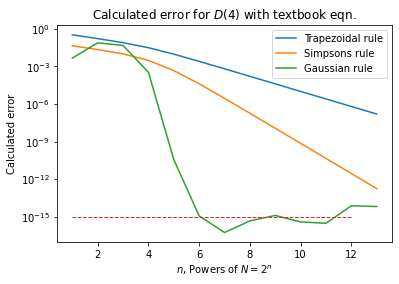
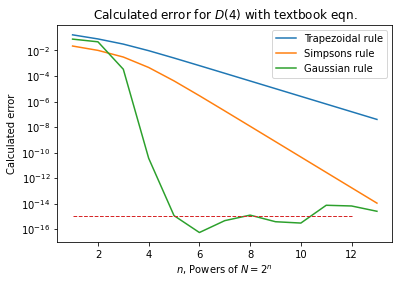
Q3 sajkfhauilshfxjkabfkaseruil

diff --git a/Lab3/Q3/Lab3_Q3.py b/Lab3/Q3/Lab3_Q3.py
@@ -54,7 +54,7 @@ plt.text(6.61, 46.4, 'Evian', fontsize = 17, color = 'w')
 
 plt.xlabel('Longitude, $^{\circ} E$', fontsize  = 15)
 plt.ylabel('Latitude, $^{\circ} N$', fontsize  = 15)
-plt.title('Lake Geneva contour plot')
+plt.title('Lake Geneva altitude contour plot')
 plt.show()
 
 #imshow
@@ -63,7 +63,7 @@ plt.imshow(w, extent = [6, 7, 46, 47], cmap = 'terrain', vmax = 3200, vmin = 400
 plt.colorbar(label = 'Altitude (m)')
 plt.xlabel('Longitude, $^{\circ} E$', fontsize  = 15)
 plt.ylabel('Latitude, $^{\circ} N$', fontsize  = 15)
-plt.title('Lake Geneva more delicate plot')
+plt.title('Lake Geneva altitude smoooooth plot')
 plt.show()
 
 
@@ -76,43 +76,107 @@ intens = intensity(grad, phi)
 
 plt.figure('intensity', figsize = (12, 9))        
 plt.imshow(intens, vmax = 0.01, vmin = -0.01, extent = [6, 7, 46, 47], cmap = 'gray')
-plt.colorbar(label = 'Intensity')
+plt.colorbar(label = '\'Intensity\'')
 plt.xlabel('Longitude, $^{\circ} E$', fontsize  = 15)
 plt.ylabel('Latitude, $^{\circ} N$', fontsize  = 15)
-plt.title('Light intensity plot from southwest')
+plt.title('Relief map plot, light from northeast')
+plt.show()
+
+###### zoom for geneva & cern ############################
+geneva_w = np.ones([480,480], float)*0
+geneva_intens = np.ones([480,480], float)*0
+
+for i in range(0,480):
+    for j in range(0,480):
+        geneva_w[i][j] = w[720+i][j]
+        geneva_intens[i][j] = intens[720+i][j]
+
+long_geneva = np.linspace(6, 6.4, 480)
+lat_geneva = np.linspace(46.4, 46, 480)
+
+plt.figure('Geneva_contour', figsize = (8, 6))        
+plt.contourf(long_geneva, lat_geneva, geneva_w, cmap = 'terrain')
+plt.colorbar(label = 'Altitude (m)')
+plt.scatter(6.14, 46.2, c = 'r', s = 100)
+plt.text(6.16, 46.2, 'Geneva', fontsize = 15, color = 'w')
+plt.scatter(6.06, 46.25, c = 'r', s = 100)
+plt.text(6.08, 46.25, 'CERN', fontsize = 15, color = 'w')
+plt.xlabel('Longitude, $^{\circ} E$', fontsize  = 15)
+plt.ylabel('Latitude, $^{\circ} N$', fontsize  = 15)
+plt.title('Zoomed contour plot for Geneva & CERN')
+plt.show()
+
+plt.figure('Geneva_smoooth', figsize = (8,6))
+plt.imshow(geneva_w, extent = [6, 6.4, 46, 46.4], cmap = 'terrain')
+plt.colorbar(label = 'Altitude (m)')
+plt.scatter(6.14, 46.2, c = 'r', s = 100)
+plt.text(6.16, 46.2, 'Geneva', fontsize = 15, color = 'w')
+plt.scatter(6.06, 46.25, c = 'r', s = 100)
+plt.text(6.08, 46.25, 'CERN', fontsize = 15, color = 'w')
+plt.xlabel('Longitude, $^{\circ} E$', fontsize  = 15)
+plt.ylabel('Latitude, $^{\circ} N$', fontsize  = 15)
+plt.title('Zoomed smooooth altitude plot for Geneva & CERN')
+plt.show()
+
+plt.figure('Geneva_relief', figsize = (8,6))
+plt.imshow(geneva_intens, extent = [6, 6.4, 46, 46.4], cmap = 'gray', vmax = 0.01, vmin = -0.01)
+plt.colorbar(label = '\'Intensity\'')
+plt.scatter(6.14, 46.2, c = 'r', s = 100)
+plt.text(6.16, 46.2, 'Geneva', fontsize = 15, color = 'w')
+plt.scatter(6.06, 46.25, c = 'r', s = 100)
+plt.text(6.08, 46.25, 'CERN', fontsize = 15, color = 'w')
+plt.title('Zoomed releaf map plot for Geneva & CERN')
+plt.xlabel('Longitude, $^{\circ} E$', fontsize  = 15)
+plt.ylabel('Latitude, $^{\circ} N$', fontsize  = 15)
+plt.show()
+###########################################################
+
+##############zoom for lausanne & evian######################
+laus_w = np.ones([480,480], float)*0
+laus_intens = np.ones([480,480], float)*0
+
+for i in range(0,480):
+    for j in range(0,480):
+        laus_w[i][j] = w[360+i][480+j]
+        laus_intens[i][j] = intens[360+i][480+j]
+
+long_laus = np.linspace(6.4, 6.8, 480)
+lat_laus = np.linspace(46.7, 46.3, 480)
+                
+plt.figure('Lausanne_contour', figsize = (8, 6))          
+plt.contourf(long_laus, lat_laus, laus_w, cmap = 'terrain') 
+plt.colorbar(label = 'Altitude (m)')
+plt.scatter(6.61, 46.52, c = 'r', s = 100)
+plt.text(6.63, 46.52, 'Lausanne', fontsize = 15, color = 'w')
+plt.scatter(6.59, 46.4, c = 'r', s = 100)
+plt.text(6.61, 46.4, 'Evian', fontsize = 15, color = 'w')
+plt.xlabel('Longitude, $^{\circ} E$', fontsize  = 15)
+plt.ylabel('Latitude, $^{\circ} N$', fontsize  = 15)
+plt.title('Zoomed contour plot for Lausanne and Elvian')
 plt.show()
 
 
-
-
-
-'''
-location = [46.2, 6.12]
-location_grid = [0, 0]
-location_grid[0] = int((47 - location[0]) * 1200)
-location_grid[1] = int((location[1] - 6) * 1200)
-geneva_w = np.ones([200,200], float)*0
-geneva_intensity = np.ones([200,200], float)*0
-for i in range(0, 200):
-    for j in range(0, 200):
-        geneva_w[i][j] = w[location_grid[0]-100+i][location_grid[1]-100+j]
-        geneva_intensity[i][j] = intens[location_grid[0]-100+i][location_grid[0]-100+j]
-        
-plt.figure(3)
-plt.imshow(geneva_w)
-plt.contourf(geneva_w, origin='upper', cmap = 'terrain', vmax = 3200, vmin = 400)
+plt.figure('Lausanne_smoooth', figsize = (8, 6))
+plt.imshow(laus_w, extent = [6.4, 6.8, 46.3, 46.7], cmap = 'terrain')
+plt.colorbar(label = 'Altitude (m)')
+plt.scatter(6.61, 46.52, c = 'r', s = 100)
+plt.text(6.63, 46.52, 'Lausanne', fontsize = 15, color = 'w')
+plt.scatter(6.59, 46.4, c = 'r', s = 100)
+plt.text(6.61, 46.4, 'Evian', fontsize = 15, color = 'w')
+plt.xlabel('Longitude, $^{\circ} E$', fontsize  = 15)
+plt.ylabel('Latitude, $^{\circ} N$', fontsize  = 15)
+plt.title('Zoomed smoooooth altitude plot for Lausanne and Elvian')
 plt.show()
 
-plt.figure(4)
-plt.imshow(geneva_intensity, cmap = 'gray', extent = [6.04, 6.2, 46.12, 46.29])
-plt.show
-'''
-
-                
-                
-                
-                
-                
-                
-                
-                            
+plt.figure('Lausanne_relief', figsize = (8, 6))
+plt.imshow(laus_intens, extent = [6.4, 6.8, 46.3, 46.7], cmap = 'gray', vmax = 0.01, vmin = -0.01)
+plt.colorbar(label = '\'Intensity\'')
+plt.scatter(6.61, 46.52, c = 'r', s = 100)
+plt.text(6.63, 46.52, 'Lausanne', fontsize = 15, color = 'w')
+plt.scatter(6.59, 46.4, c = 'r', s = 100)
+plt.text(6.61, 46.4, 'Evian', fontsize = 15, color = 'w')
+plt.xlabel('Longitude, $^{\circ} E$', fontsize  = 15)
+plt.ylabel('Latitude, $^{\circ} N$', fontsize  = 15)
+plt.title('Zoomed relief map plot for Lausanne and Elvian')
+plt.show()
+####################################################################

diff --git a/Lab3/Q1/Lab3_Q1a.py b/Lab3/Q1/Lab3_Q1a.py
@@ -45,7 +45,7 @@ plt.semilogy()
 plt.legend()
 plt.ylabel('Relative error')
 plt.xlabel('$n$, Powers of $N=2^n$')
-plt.title('Relative error from scipy.speical.dawsn(4)')
+plt.title('Relative (true) error from scipy.speical.dawsn(4)')
 plt.show()
 
 #Calculated error with textbook eqn.
@@ -53,7 +53,7 @@ calculated_error_trap = []
 calculated_error_simp = []
 calculated_error_gauss = []
 
-n = np.arange(0, 13, 1)
+n = np.arange(1, 14, 1)
 for i in n:
     N_1 = 2**i
     N_2 = 2**(i+1)
